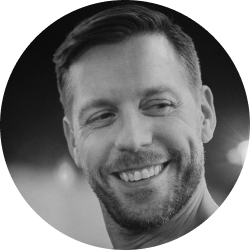
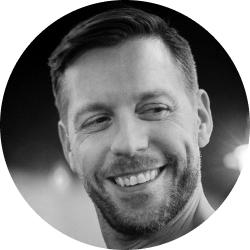
photos changed

diff --git a/w3c.html b/w3c.html
@@ -1,2 +1,2 @@
 <!DOCTYPE html>
-<html lang="en"><head><link href="icon.png" rel="icon"><link href="style.css" rel="stylesheet"><title>Showing results for contents of text-input area - Nu Html Checker</title><meta name="viewport" content="width=device-width, initial-scale=1"></head><body><div id="banner"><h1 id="title"><a href="."><span>Nu Html Checker</span></a></h1></div><p class="disclaimer">This tool is an ongoing experiment in better HTML checking, and its behavior remains subject to change</p><h2 id="top">Showing results for contents of text-input area</h2><form method="get"><fieldset><legend>Checker Input</legend><p class="checkboxes">Show <span class="checkboxgroup"><label title="Display the markup source of the input document." for="showsource"><input type="checkbox" name="showsource" id="showsource" value="yes">source</label><label title="Display an outline of the input document." for="showoutline"><input type="checkbox" name="showoutline" id="showoutline" value="yes">outline</label><label title="Display a report about the textual alternatives for images." for="showimagereport"><input type="checkbox" name="showimagereport" id="showimagereport" value="yes">image report</label></span><input id="show_options" type="button" value="Options…"><span class="extraoptions hidden"><span class="checkboxgroup"><label title="Check the content of all responses, including (non-200) error responses"><input type="checkbox" name="checkerrorpages" id="checkerrorpages" value="yes">check error pages</label></span><label id="user-agent-label" title="Specify the user-agent string to send in the document request">User-Agent <input name="useragent" list="useragents" value="Validator.nu/LV http://validator.w3.org/services"></label><datalist id="useragents"></datalist><label id="accept-language-label" title="Specify the accept-language header to send in the document request">Accept-Language <input id="acceptlanguage" name="acceptlanguage"></label></span></p><div id="inputregion"><label id="inputlabel" for="doc">Document URL:</label><input type="url" name="doc" id="doc" pattern="(?:(?:https?://.+)|(?:data:.+))?" title="Absolute URL (http, https or data only) of the document to be checked." tabindex="0" autofocus="autofocus"></div><p><input value="Check" type="submit" id="submit"></p></fieldset></form><script src="script.js"></script><script src="data:text/javascript,var%20_paq%3Dwindow._paq%7C%7C%5B%5D%3B_paq.push%28%5B%22trackPageView%22%5D%29%2C_paq.push%28%5B%22enableLinkTracking%22%5D%29%2Cfunction%28%29%7Bvar%20e%3D%22https%3A%2F%2Fwww.w3.org%2Fanalytics%2Fpiwik%2F%22%3B_paq.push%28%5B%22setTrackerUrl%22%2Ce%2B%22matomo.php%22%5D%29%2C_paq.push%28%5B%22setSiteId%22%2C%22444%22%5D%29%3Bvar%20a%3Ddocument%2Ct%3Da.createElement%28%22script%22%29%2Cp%3Da.getElementsByTagName%28%22script%22%29%5B0%5D%3Bt.type%3D%22text%2Fjavascript%22%2Ct.async%3D%210%2Ct.defer%3D%210%2Ct.src%3De%2B%22matomo.js%22%2Cp.parentNode.insertBefore%28t%2Cp%29%7D%28%29%3B"></script><div id="results"><ol><li class="error"><p><strong>Error</strong>: <span>Stray end tag <code>spa</code>.</span></p><p class="location">From line <span class="first-line">100</span>, column <span class="first-col">52</span>; to line <span class="last-line">100</span>, column <span class="last-col">57</span></p><p class="extract"><code>"&gt;&lt;span&gt;sv<b>&lt;/spa&gt;</b>&lt;/a&gt;<span class="lf" title="Line break">↩</span>	</code></p></li><li class="error"><p><strong>Error</strong>: <span>End tag <code>a</code> violates nesting rules.</span></p><p class="location">From line <span class="first-line">100</span>, column <span class="first-col">58</span>; to line <span class="last-line">100</span>, column <span class="last-col">61</span></p><p class="extract"><code>n&gt;sv&lt;/spa&gt;<b>&lt;/a&gt;</b><span class="lf" title="Line break">↩</span>					</code></p></li><li class="error"><p><strong>Error</strong>: <span>Bad value <code>img/list-menu 1.svg</code> for attribute <code>src</code> on element <a href="https://html.spec.whatwg.org/multipage/#the-img-element"><code>img</code></a>: Illegal character in path segment: space is not allowed.</span></p><p class="location">From line <span class="first-line">104</span>, column <span class="first-col">7</span>; to line <span class="last-line">104</span>, column <span class="last-col">50</span></p><p class="extract"><code>r"&gt;<span class="lf" title="Line break">↩</span>						<b>&lt;img src="img/list-menu 1.svg" alt="burger"&gt;</b><span class="lf" title="Line break">↩</span>					</code></p></li><li class="error"><p><strong>Error</strong>: <span>Bad value <code>img/close-button 1.svg</code> for attribute <code>src</code> on element <a href="https://html.spec.whatwg.org/multipage/#the-img-element"><code>img</code></a>: Illegal character in path segment: space is not allowed.</span></p><p class="location">From line <span class="first-line">109</span>, column <span class="first-col">7</span>; to line <span class="last-line">109</span>, column <span class="last-col">52</span></p><p class="extract"><code>n"&gt;<span class="lf" title="Line break">↩</span>						<b>&lt;img src="img/close-button 1.svg" alt="close"&gt;</b><span class="lf" title="Line break">↩</span>					</code></p></li><li class="error"><p><strong>Error</strong>: <span>Duplicate ID <code>clip0</code>.</span></p><p class="location">From line <span class="first-line">175</span>, column <span class="first-col">11</span>; to line <span class="last-line">175</span>, column <span class="last-col">31</span></p><p class="extract"><code>										<b>&lt;clipPath id="clip0"&gt;</b><span class="lf" title="Line break">↩</span>					</code></p></li><li class="info warning"><p><strong>Warning</strong>: <span>The first occurrence of ID <code>clip0</code> was here.</span></p><p class="location">From line <span class="first-line">87</span>, column <span class="first-col">11</span>; to line <span class="last-line">87</span>, column <span class="last-col">31</span></p><p class="extract"><code>										<b>&lt;clipPath id="clip0"&gt;</b><span class="lf" title="Line break">↩</span>					</code></p></li><li class="error"><p><strong>Error</strong>: <span>Stray end tag <code>spa</code>.</span></p><p class="location">From line <span class="first-line">188</span>, column <span class="first-col">59</span>; to line <span class="last-line">188</span>, column <span class="last-col">64</span></p><p class="extract"><code>"&gt;&lt;span&gt;sv<b>&lt;/spa&gt;</b>&lt;/a&gt;<span class="lf" title="Line break">↩</span>	</code></p></li><li class="error"><p><strong>Error</strong>: <span>End tag <code>a</code> violates nesting rules.</span></p><p class="location">From line <span class="first-line">188</span>, column <span class="first-col">65</span>; to line <span class="last-line">188</span>, column <span class="last-col">68</span></p><p class="extract"><code>n&gt;sv&lt;/spa&gt;<b>&lt;/a&gt;</b><span class="lf" title="Line break">↩</span>					</code></p></li><li class="error"><p><strong>Error</strong>: <span>Bad value <code>img/phraze 1.svg</code> for attribute <code>src</code> on element <a href="https://html.spec.whatwg.org/multipage/#the-img-element"><code>img</code></a>: Illegal character in path segment: space is not allowed.</span></p><p class="location">From line <span class="first-line">205</span>, column <span class="first-col">6</span>; to line <span class="last-line">205</span>, column <span class="last-col">77</span></p><p class="extract"><code>tn"&gt;<span class="lf" title="Line break">↩</span>					<b>&lt;img src="img/phraze 1.svg" alt="phraze" class="first-screen__img-text"&gt;</b><span class="lf" title="Line break">↩</span>					</code></p></li><li class="error"><p><strong>Error</strong>: <span>Bad value <code>img/analytics 1.svg</code> for attribute <code>src</code> on element <a href="https://html.spec.whatwg.org/multipage/#the-img-element"><code>img</code></a>: Illegal character in path segment: space is not allowed.</span></p><p class="location">From line <span class="first-line">222</span>, column <span class="first-col">10</span>; to line <span class="last-line">222</span>, column <span class="last-col">76</span></p><p class="extract"><code><span class="lf" title="Line break">↩</span>									<b>&lt;img src="img/analytics 1.svg" alt="analitics" class="agency__img"&gt;</b><span class="lf" title="Line break">↩</span>					</code></p></li><li class="error"><p><strong>Error</strong>: <span>Bad value <code>img/develop 1.svg</code> for attribute <code>src</code> on element <a href="https://html.spec.whatwg.org/multipage/#the-img-element"><code>img</code></a>: Illegal character in path segment: space is not allowed.</span></p><p class="location">From line <span class="first-line">229</span>, column <span class="first-col">10</span>; to line <span class="last-line">229</span>, column <span class="last-col">75</span></p><p class="extract"><code><span class="lf" title="Line break">↩</span>									<b>&lt;img src="img/develop 1.svg" alt="developers" class="agency__img"&gt;</b><span class="lf" title="Line break">↩</span>					</code></p></li><li class="error"><p><strong>Error</strong>: <span>Bad value <code>img/agreement 1.svg</code> for attribute <code>src</code> on element <a href="https://html.spec.whatwg.org/multipage/#the-img-element"><code>img</code></a>: Illegal character in path segment: space is not allowed.</span></p><p class="location">From line <span class="first-line">236</span>, column <span class="first-col">10</span>; to line <span class="last-line">236</span>, column <span class="last-col">76</span></p><p class="extract"><code><span class="lf" title="Line break">↩</span>									<b>&lt;img src="img/agreement 1.svg" alt="agreement" class="agency__img"&gt;</b><span class="lf" title="Line break">↩</span>					</code></p></li><li class="error"><p><strong>Error</strong>: <span>Bad value <code>img/light 1.svg</code> for attribute <code>src</code> on element <a href="https://html.spec.whatwg.org/multipage/#the-img-element"><code>img</code></a>: Illegal character in path segment: space is not allowed.</span></p><p class="location">From line <span class="first-line">351</span>, column <span class="first-col">45</span>; to line <span class="last-line">351</span>, column <span class="last-col">83</span></p><p class="extract"><code>-wrapper"&gt;<b>&lt;img src="img/light 1.svg" alt="light"&gt;</b>&lt;/div&gt;</code></p></li><li class="error"><p><strong>Error</strong>: <span>Bad value <code>img/tap 1.svg</code> for attribute <code>src</code> on element <a href="https://html.spec.whatwg.org/multipage/#the-img-element"><code>img</code></a>: Illegal character in path segment: space is not allowed.</span></p><p class="location">From line <span class="first-line">360</span>, column <span class="first-col">45</span>; to line <span class="last-line">360</span>, column <span class="last-col">79</span></p><p class="extract"><code>-wrapper"&gt;<b>&lt;img src="img/tap 1.svg" alt="tap"&gt;</b>&lt;/div&gt;</code></p></li><li class="error"><p><strong>Error</strong>: <span>Bad value <code>img/Marten photo 1.jpg</code> for attribute <code>src</code> on element <a href="https://html.spec.whatwg.org/multipage/#the-img-element"><code>img</code></a>: Illegal character in path segment: space is not allowed.</span></p><p class="location">From line <span class="first-line">660</span>, column <span class="first-col">8</span>; to line <span class="last-line">660</span>, column <span class="last-col">79</span></p><p class="extract"><code>"&gt;<span class="lf" title="Line break">↩</span>							<b>&lt;img src="img/Marten photo 1.jpg" alt="photo" class="conversation__img"&gt;</b><span class="lf" title="Line break">↩</span>					</code></p></li><li class="error"><p><strong>Error</strong>: <span>Bad value <code>img/Yuliia Novyk photo_bw 1.jpg</code> for attribute <code>src</code> on element <a href="https://html.spec.whatwg.org/multipage/#the-img-element"><code>img</code></a>: Illegal character in path segment: space is not allowed.</span></p><p class="location">From line <span class="first-line">671</span>, column <span class="first-col">8</span>; to line <span class="last-line">671</span>, column <span class="last-col">88</span></p><p class="extract"><code>"&gt;<span class="lf" title="Line break">↩</span>							<b>&lt;img src="img/Yuliia Novyk photo_bw 1.jpg" alt="photo" class="conversation__img"&gt;</b><span class="lf" title="Line break">↩</span>					</code></p></li></ol><p class="failure">There were errors.</p><div class="details"><p class="msgschema">Used the schema for HTML + SVG 1.1 + MathML 3.0 + RDFa 1.1.</p><p class="msgmediatype">Used the HTML parser.</div><p class="stats">Total execution time 143 milliseconds.</p></div><hr><div id="about"><p><a href="about.html">About this checker</a> • <a href="about.html#issues">Report an issue</a> • <span class="version">Version: 20.1.2</span></p></div></body></html>
+<html lang="en"><head><link href="icon.png" rel="icon"><link href="style.css" rel="stylesheet"><title>Showing results for contents of text-input area - Nu Html Checker</title><meta name="viewport" content="width=device-width, initial-scale=1"></head><body><div id="banner"><h1 id="title"><a href="."><span>Nu Html Checker</span></a></h1></div><p class="disclaimer">This tool is an ongoing experiment in better HTML checking, and its behavior remains subject to change</p><h2 id="top">Showing results for contents of text-input area</h2><form method="get"><fieldset><legend>Checker Input</legend><p class="checkboxes">Show <span class="checkboxgroup"><label title="Display the markup source of the input document." for="showsource"><input type="checkbox" name="showsource" id="showsource" value="yes">source</label><label title="Display an outline of the input document." for="showoutline"><input type="checkbox" name="showoutline" id="showoutline" value="yes">outline</label><label title="Display a report about the textual alternatives for images." for="showimagereport"><input type="checkbox" name="showimagereport" id="showimagereport" value="yes">image report</label></span><input id="show_options" type="button" value="Options…"><span class="extraoptions hidden"><span class="checkboxgroup"><label title="Check the content of all responses, including (non-200) error responses"><input type="checkbox" name="checkerrorpages" id="checkerrorpages" value="yes">check error pages</label></span><label id="user-agent-label" title="Specify the user-agent string to send in the document request">User-Agent <input name="useragent" list="useragents" value="Validator.nu/LV http://validator.w3.org/services"></label><datalist id="useragents"></datalist><label id="accept-language-label" title="Specify the accept-language header to send in the document request">Accept-Language <input id="acceptlanguage" name="acceptlanguage"></label></span></p><div id="inputregion"><label id="inputlabel" for="doc">Document URL:</label><input type="url" name="doc" id="doc" pattern="(?:(?:https?://.+)|(?:data:.+))?" title="Absolute URL (http, https or data only) of the document to be checked." tabindex="0" autofocus="autofocus"></div><p><input value="Check" type="submit" id="submit"></p></fieldset></form><script src="script.js"></script><script src="data:text/javascript,var%20_paq%3Dwindow._paq%7C%7C%5B%5D%3B_paq.push%28%5B%22trackPageView%22%5D%29%2C_paq.push%28%5B%22enableLinkTracking%22%5D%29%2Cfunction%28%29%7Bvar%20e%3D%22https%3A%2F%2Fwww.w3.org%2Fanalytics%2Fpiwik%2F%22%3B_paq.push%28%5B%22setTrackerUrl%22%2Ce%2B%22matomo.php%22%5D%29%2C_paq.push%28%5B%22setSiteId%22%2C%22444%22%5D%29%3Bvar%20a%3Ddocument%2Ct%3Da.createElement%28%22script%22%29%2Cp%3Da.getElementsByTagName%28%22script%22%29%5B0%5D%3Bt.type%3D%22text%2Fjavascript%22%2Ct.async%3D%210%2Ct.defer%3D%210%2Ct.src%3De%2B%22matomo.js%22%2Cp.parentNode.insertBefore%28t%2Cp%29%7D%28%29%3B"></script><div id="results"><ol><li class="error"><p><strong>Error</strong>: <span>Stray end tag <code>spa</code>.</span></p><p class="location">From line <span class="first-line">100</span>, column <span class="first-col">52</span>; to line <span class="last-line">100</span>, column <span class="last-col">57</span></p><p class="extract"><code>"&gt;&lt;span&gt;sv<b>&lt;/spa&gt;</b>&lt;/a&gt;<span class="lf" title="Line break">↩</span>	</code></p></li><li class="error"><p><strong>Error</strong>: <span>End tag <code>a</code> violates nesting rules.</span></p><p class="location">From line <span class="first-line">100</span>, column <span class="first-col">58</span>; to line <span class="last-line">100</span>, column <span class="last-col">61</span></p><p class="extract"><code>n&gt;sv&lt;/spa&gt;<b>&lt;/a&gt;</b><span class="lf" title="Line break">↩</span>					</code></p></li><li class="error"><p><strong>Error</strong>: <span>Bad value <code>img/list-menu 1.svg</code> for attribute <code>src</code> on element <a href="https://html.spec.whatwg.org/multipage/#the-img-element"><code>img</code></a>: Illegal character in path segment: space is not allowed.</span></p><p class="location">From line <span class="first-line">104</span>, column <span class="first-col">7</span>; to line <span class="last-line">104</span>, column <span class="last-col">50</span></p><p class="extract"><code>r"&gt;<span class="lf" title="Line break">↩</span>						<b>&lt;img src="img/list-menu 1.svg" alt="burger"&gt;</b><span class="lf" title="Line break">↩</span>					</code></p></li><li class="error"><p><strong>Error</strong>: <span>Bad value <code>img/close-button 1.svg</code> for attribute <code>src</code> on element <a href="https://html.spec.whatwg.org/multipage/#the-img-element"><code>img</code></a>: Illegal character in path segment: space is not allowed.</span></p><p class="location">From line <span class="first-line">109</span>, column <span class="first-col">7</span>; to line <span class="last-line">109</span>, column <span class="last-col">52</span></p><p class="extract"><code>n"&gt;<span class="lf" title="Line break">↩</span>						<b>&lt;img src="img/close-button 1.svg" alt="close"&gt;</b><span class="lf" title="Line break">↩</span>					</code></p></li><li class="error"><p><strong>Error</strong>: <span>Duplicate ID <code>clip0</code>.</span></p><p class="location">From line <span class="first-line">175</span>, column <span class="first-col">11</span>; to line <span class="last-line">175</span>, column <span class="last-col">31</span></p><p class="extract"><code>										<b>&lt;clipPath id="clip0"&gt;</b><span class="lf" title="Line break">↩</span>					</code></p></li><li class="info warning"><p><strong>Warning</strong>: <span>The first occurrence of ID <code>clip0</code> was here.</span></p><p class="location">From line <span class="first-line">87</span>, column <span class="first-col">11</span>; to line <span class="last-line">87</span>, column <span class="last-col">31</span></p><p class="extract"><code>										<b>&lt;clipPath id="clip0"&gt;</b><span class="lf" title="Line break">↩</span>					</code></p></li><li class="error"><p><strong>Error</strong>: <span>Stray end tag <code>spa</code>.</span></p><p class="location">From line <span class="first-line">188</span>, column <span class="first-col">59</span>; to line <span class="last-line">188</span>, column <span class="last-col">64</span></p><p class="extract"><code>"&gt;&lt;span&gt;sv<b>&lt;/spa&gt;</b>&lt;/a&gt;<span class="lf" title="Line break">↩</span>	</code></p></li><li class="error"><p><strong>Error</strong>: <span>End tag <code>a</code> violates nesting rules.</span></p><p class="location">From line <span class="first-line">188</span>, column <span class="first-col">65</span>; to line <span class="last-line">188</span>, column <span class="last-col">68</span></p><p class="extract"><code>n&gt;sv&lt;/spa&gt;<b>&lt;/a&gt;</b><span class="lf" title="Line break">↩</span>					</code></p></li><li class="error"><p><strong>Error</strong>: <span>Bad value <code>img/phraze 1.svg</code> for attribute <code>src</code> on element <a href="https://html.spec.whatwg.org/multipage/#the-img-element"><code>img</code></a>: Illegal character in path segment: space is not allowed.</span></p><p class="location">From line <span class="first-line">205</span>, column <span class="first-col">6</span>; to line <span class="last-line">205</span>, column <span class="last-col">77</span></p><p class="extract"><code>tn"&gt;<span class="lf" title="Line break">↩</span>					<b>&lt;img src="img/phraze 1.svg" alt="phraze" class="first-screen__img-text"&gt;</b><span class="lf" title="Line break">↩</span>					</code></p></li><li class="error"><p><strong>Error</strong>: <span>Bad value <code>img/analytics 1.svg</code> for attribute <code>src</code> on element <a href="https://html.spec.whatwg.org/multipage/#the-img-element"><code>img</code></a>: Illegal character in path segment: space is not allowed.</span></p><p class="location">From line <span class="first-line">222</span>, column <span class="first-col">10</span>; to line <span class="last-line">222</span>, column <span class="last-col">76</span></p><p class="extract"><code><span class="lf" title="Line break">↩</span>									<b>&lt;img src="img/analytics 1.svg" alt="analitics" class="agency__img"&gt;</b><span class="lf" title="Line break">↩</span>					</code></p></li><li class="error"><p><strong>Error</strong>: <span>Bad value <code>img/develop 1.svg</code> for attribute <code>src</code> on element <a href="https://html.spec.whatwg.org/multipage/#the-img-element"><code>img</code></a>: Illegal character in path segment: space is not allowed.</span></p><p class="location">From line <span class="first-line">229</span>, column <span class="first-col">10</span>; to line <span class="last-line">229</span>, column <span class="last-col">75</span></p><p class="extract"><code><span class="lf" title="Line break">↩</span>									<b>&lt;img src="img/develop 1.svg" alt="developers" class="agency__img"&gt;</b><span class="lf" title="Line break">↩</span>					</code></p></li><li class="error"><p><strong>Error</strong>: <span>Bad value <code>img/agreement 1.svg</code> for attribute <code>src</code> on element <a href="https://html.spec.whatwg.org/multipage/#the-img-element"><code>img</code></a>: Illegal character in path segment: space is not allowed.</span></p><p class="location">From line <span class="first-line">236</span>, column <span class="first-col">10</span>; to line <span class="last-line">236</span>, column <span class="last-col">76</span></p><p class="extract"><code><span class="lf" title="Line break">↩</span>									<b>&lt;img src="img/agreement 1.svg" alt="agreement" class="agency__img"&gt;</b><span class="lf" title="Line break">↩</span>					</code></p></li><li class="error"><p><strong>Error</strong>: <span>Bad value <code>img/light 1.svg</code> for attribute <code>src</code> on element <a href="https://html.spec.whatwg.org/multipage/#the-img-element"><code>img</code></a>: Illegal character in path segment: space is not allowed.</span></p><p class="location">From line <span class="first-line">351</span>, column <span class="first-col">45</span>; to line <span class="last-line">351</span>, column <span class="last-col">83</span></p><p class="extract"><code>-wrapper"&gt;<b>&lt;img src="img/light 1.svg" alt="light"&gt;</b>&lt;/div&gt;</code></p></li><li class="error"><p><strong>Error</strong>: <span>Bad value <code>img/tap 1.svg</code> for attribute <code>src</code> on element <a href="https://html.spec.whatwg.org/multipage/#the-img-element"><code>img</code></a>: Illegal character in path segment: space is not allowed.</span></p><p class="location">From line <span class="first-line">360</span>, column <span class="first-col">45</span>; to line <span class="last-line">360</span>, column <span class="last-col">79</span></p><p class="extract"><code>-wrapper"&gt;<b>&lt;img src="img/tap 1.svg" alt="tap"&gt;</b>&lt;/div&gt;</code></p></li><li class="error"><p><strong>Error</strong>: <span>Bad value <code>img/Marten photo 1.jpg</code> for attribute <code>src</code> on element <a href="https://html.spec.whatwg.org/multipage/#the-img-element"><code>img</code></a>: Illegal character in path segment: space is not allowed.</span></p><p class="location">From line <span class="first-line">660</span>, column <span class="first-col">8</span>; to line <span class="last-line">660</span>, column <span class="last-col">79</span></p><p class="extract"><code>"&gt;<span class="lf" title="Line break">↩</span>							<b>&lt;img src="img/Marten photo 1.jpg" alt="photo" class="conversation__img"&gt;</b><span class="lf" title="Line break">↩</span>					</code></p></li><li class="error"><p><strong>Error</strong>: <span>Bad value <code>img/Yuliia Novyk photo_bw 1.jpg</code> for attribute <code>src</code> on element <a href="https://html.spec.whatwg.org/multipage/#the-img-element"><code>img</code></a>: Illegal character in path segment: space is not allowed.</span></p><p class="location">From line <span class="first-line">671</span>, column <span class="first-col">8</span>; to line <span class="last-line">671</span>, column <span class="last-col">88</span></p><p class="extract"><code>"&gt;<span class="lf" title="Line break">↩</span>							<b>&lt;img src="img/Yuliia Novyk photo_bw 1.jpg" alt="photo" class="conversation__img"&gt;</b><span class="lf" title="Line break">↩</span>					</code></p></li></ol><p class="failure">There were errors.</p><div class="details"><p class="msgschema">Used the schema for HTML + SVG 1.1 + MathML 3.0 + RDFa 1.1.</p><p class="msgmediatype">Used the HTML parser.</div><p class="stats">Total execution time 145 milliseconds.</p></div><hr><div id="about"><p><a href="about.html">About this checker</a> • <a href="about.html#issues">Report an issue</a> • <span class="version">Version: 20.1.2</span></p></div></body></html>

diff --git a/index.html b/index.html
@@ -657,7 +657,7 @@
 					</div>
 					<div class="mb-5 mb-lg-0 order-1 order-lg-2 col-12 col-lg-3 conversation__card">
 						<div class="conversation__img-wrapper">
-							<img src="img/Marten photo 1.jpg" alt="photo" class="conversation__img">
+							<img src="img/Marten photo 2.jpg" alt="photo" class="conversation__img">
 						</div>
 						<div class="conversation__wrapper">
 							<h6 class="conversation__name">Mårten Angner</h6>
@@ -668,7 +668,7 @@
 					</div>
 					<div class="mb-5 mb-lg-0 order-2 order-lg-3 col-12 col-lg-3 conversation__card">
 						<div class="conversation__img-wrapper">
-							<img src="img/Yuliia Novyk photo_bw 1.jpg" alt="photo" class="conversation__img">
+							<img src="img/Yuliia Novyk photo_bw 2.jpg" alt="photo" class="conversation__img">
 						</div>
 						<div class="conversation__wrapper">
 							<h6 class="conversation__name">Yuliia Novyk</h6>
